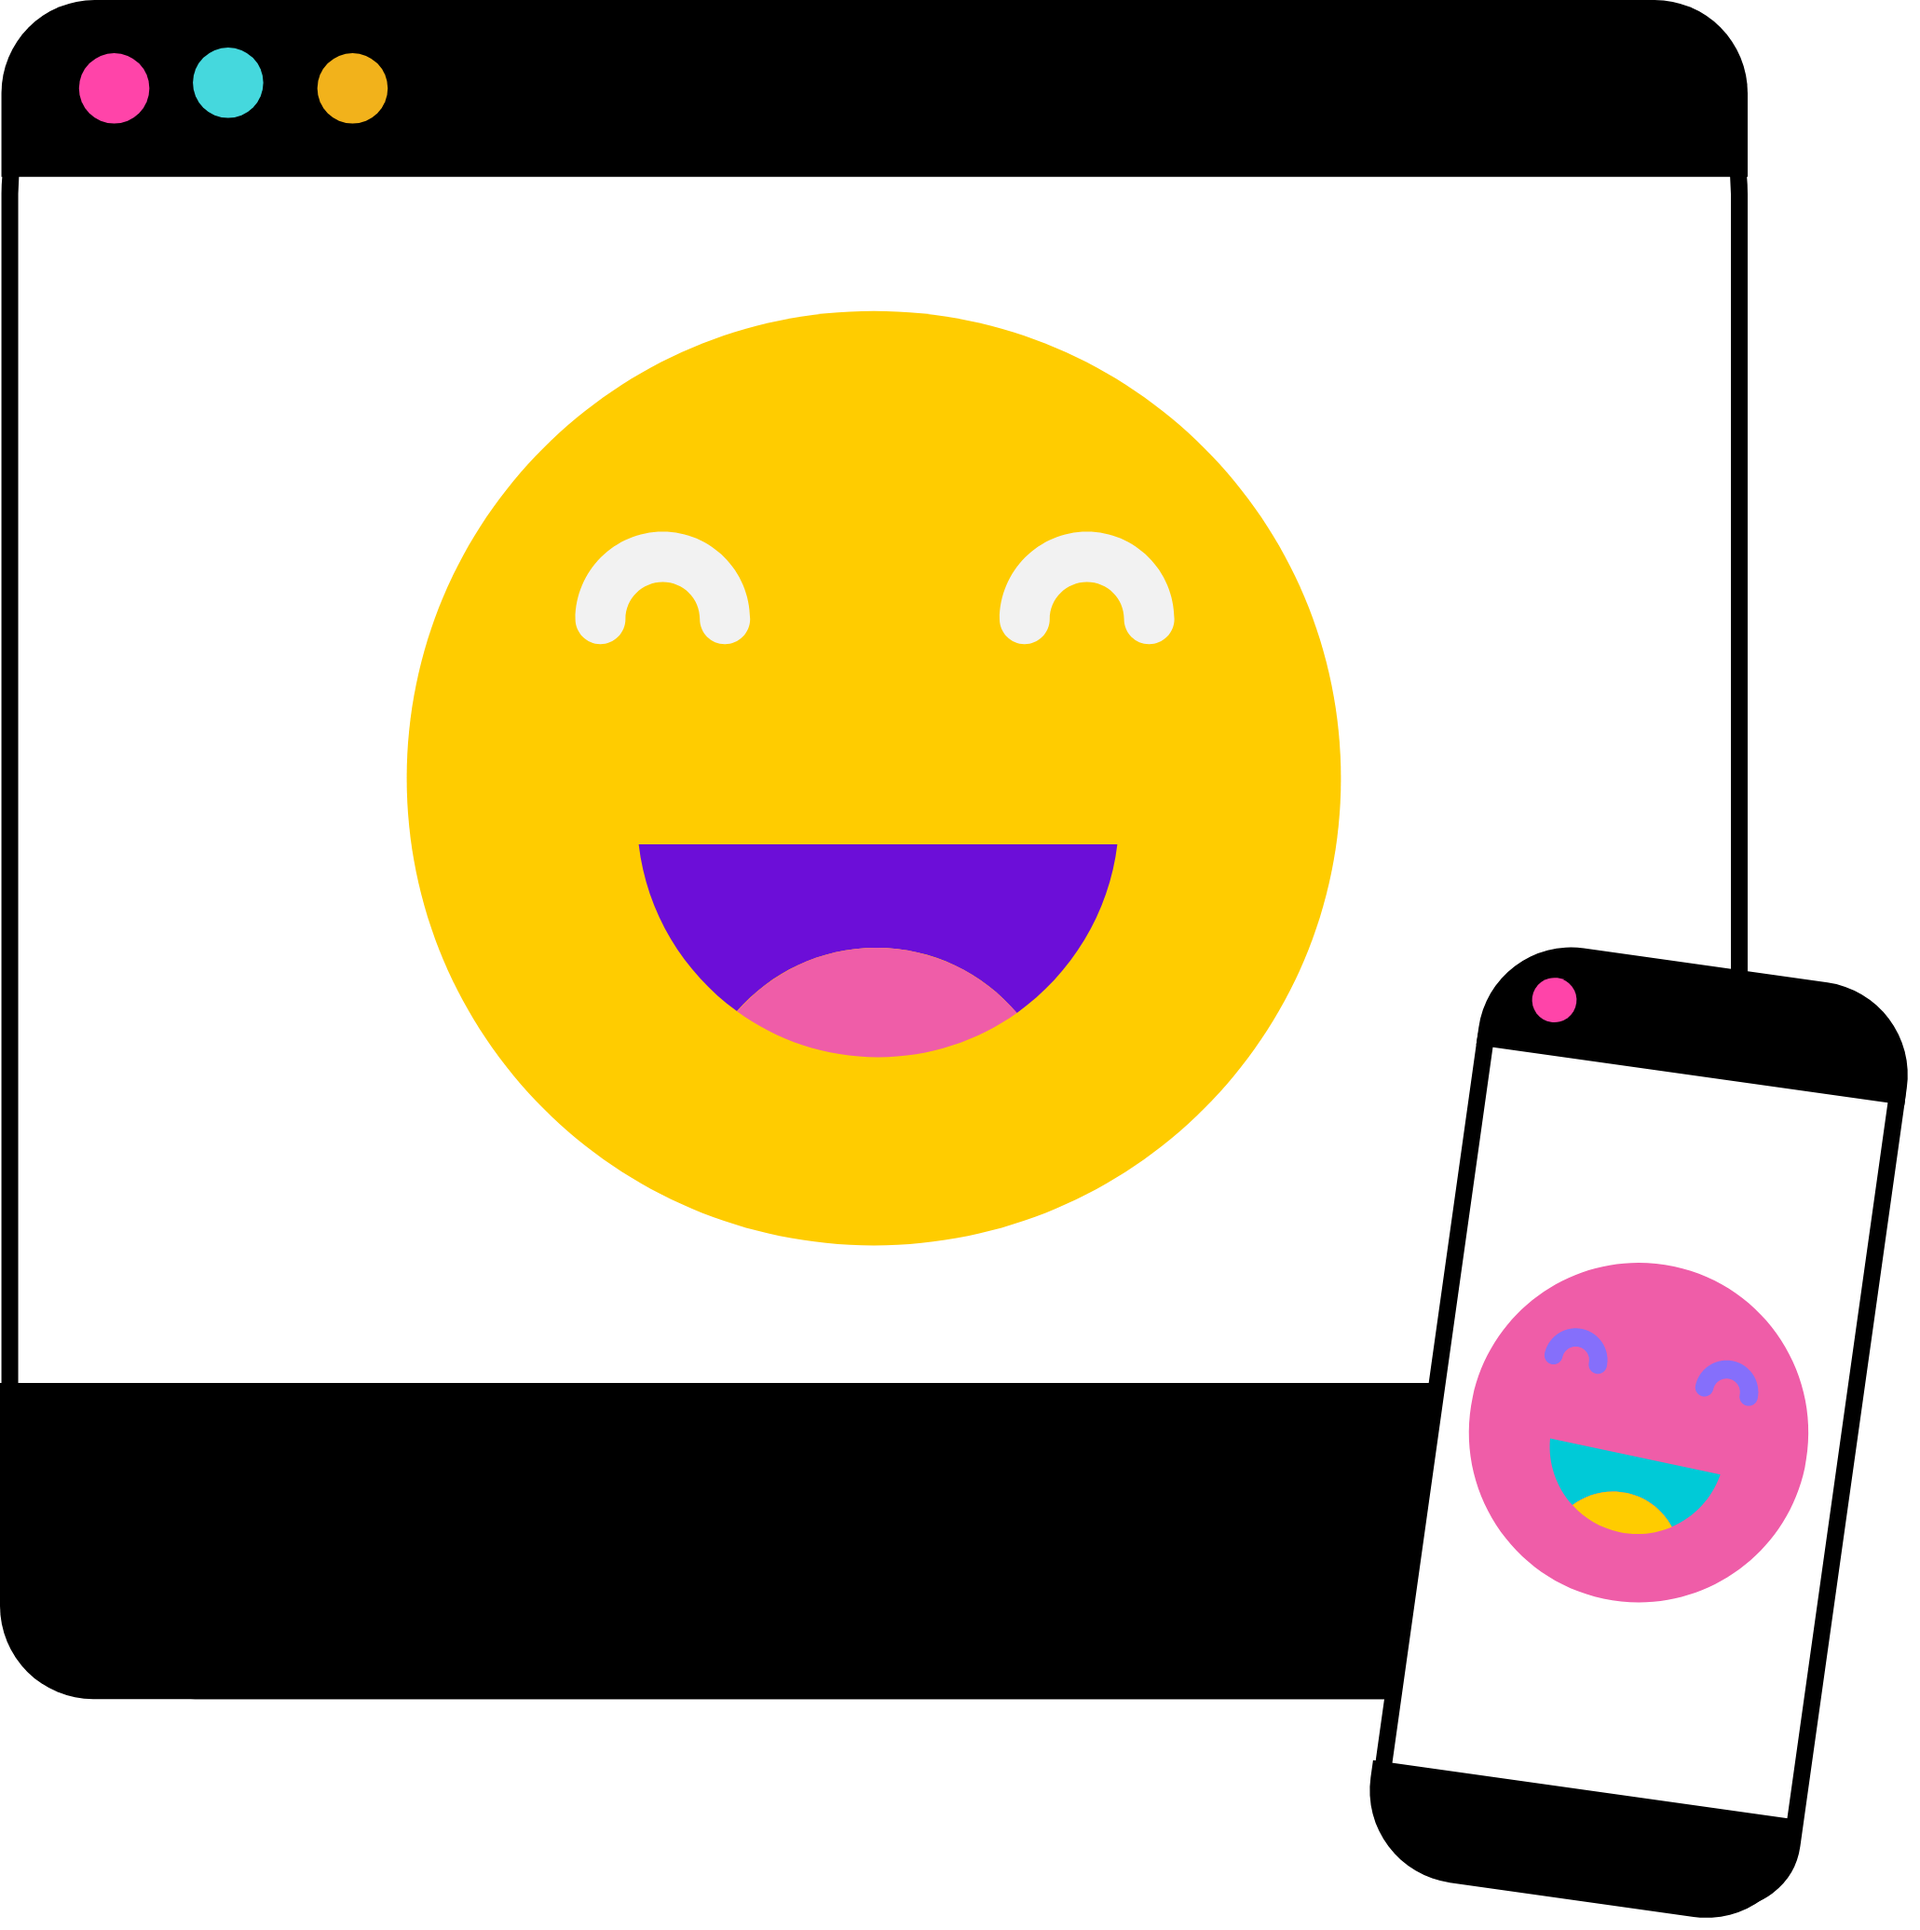
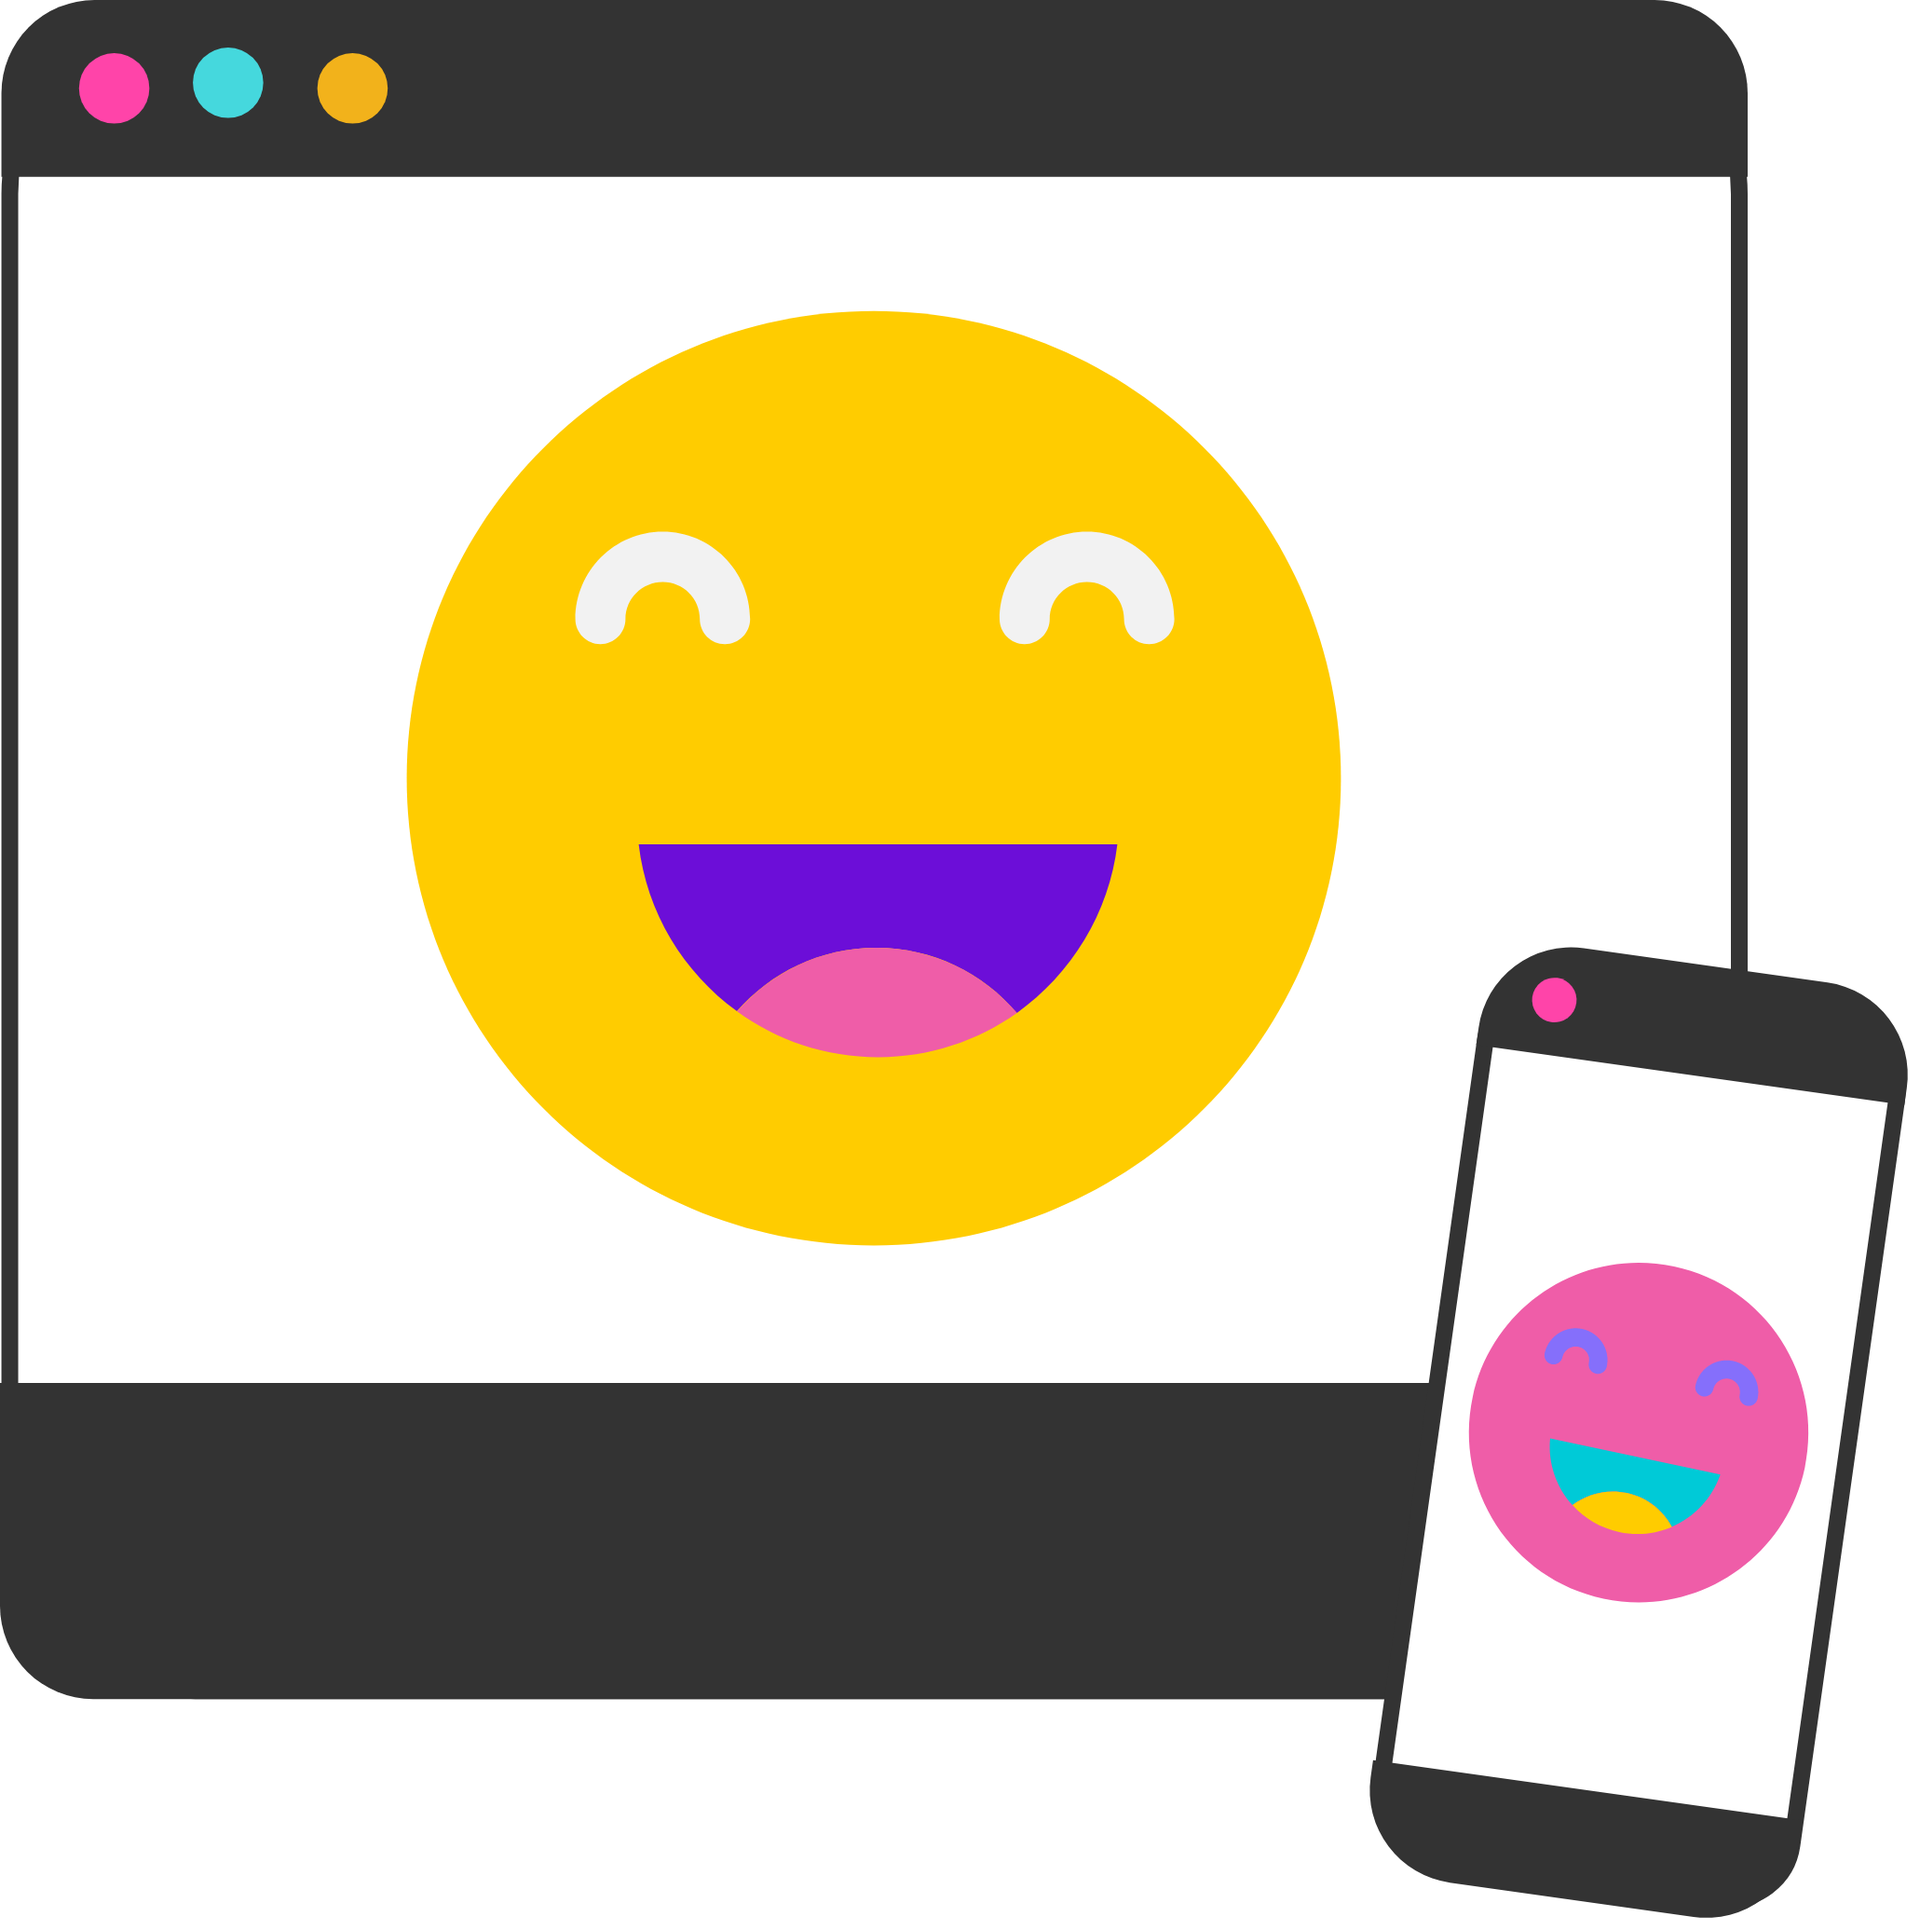
more color changes

Changed region(s): [[0.0, 0.0, 0.9937, 1.0]]

diff --git a/src/components/testimonials.module.css b/src/components/testimonials.module.css
@@ -1,7 +1,7 @@
 .testimonials-section{
   display: flex;
   flex-flow:column;
-  background-color: #000;
+  background-color: #333;
   justify-content: center;
   align-items: center;
   padding-block: min(20vh, 75px);
@@ -21,7 +21,7 @@ blockquote{
   border-radius: 20px;
   padding:50px;
   background-color: #000;
-  box-shadow: #333 10px 10px;
+  box-shadow: #000 10px 10px;
 }
 
 blockquote p{

diff --git a/src/components/socialcontact.module.css b/src/components/socialcontact.module.css
@@ -1,5 +1,5 @@
 .social-contact {
-  background-color: #333;
+  background-color: #000;
   display: inline-flex;
   flex-flow: row wrap;
   align-items: stretch;
@@ -11,7 +11,7 @@
   align-items: center;
   flex-flow: column wrap;
   flex-grow: 1;
-  background-color: #333;
+  background-color: #000;
   font-family: 'Dosis', sans-serif;
   padding-block:min(50vh, 50px);
 }

diff --git a/src/components/footer.module.css b/src/components/footer.module.css
@@ -8,7 +8,7 @@ footer {
 .thanks-end{
   display: flex;
   padding:20px;
-  background-color: #000;
+  background-color: #333;
   font-weight: 600;
   color: #F2B21B;
   justify-content: center;

diff --git a/src/components/about.module.css b/src/components/about.module.css
@@ -90,7 +90,7 @@ h3 {
   flex-flow:column wrap;
   align-self: stretch;
   align-items: center;
-  background-color: #000;
+  background-color: #333;
   padding-block: min(80vh, 100px);
 }
 

diff --git a/src/components/slider.module.css b/src/components/slider.module.css
@@ -2,7 +2,7 @@
   display: flex;
   flex-flow:column;
   text-align: center;
-  background-color: #333333;
+  background-color: #000;
   align-content: stretch;
   padding-bottom: 100px;
 }

diff --git a/src/components/contact.module.css b/src/components/contact.module.css
@@ -22,7 +22,7 @@
   align-items: center;
   justify-content: center;
   padding-bottom: 100px;  
-  background-color: black;
+  background-color: #333;
 }
 
 .contact-form-section h2 {

diff --git a/src/components/pagination-style.css b/src/components/pagination-style.css
@@ -16,7 +16,7 @@
 
 
 .custom-bullet {
-  background-color: #000;
+  background-color: #333;
   opacity: 0.5;
   border-radius: 20px;
   margin:5px;
